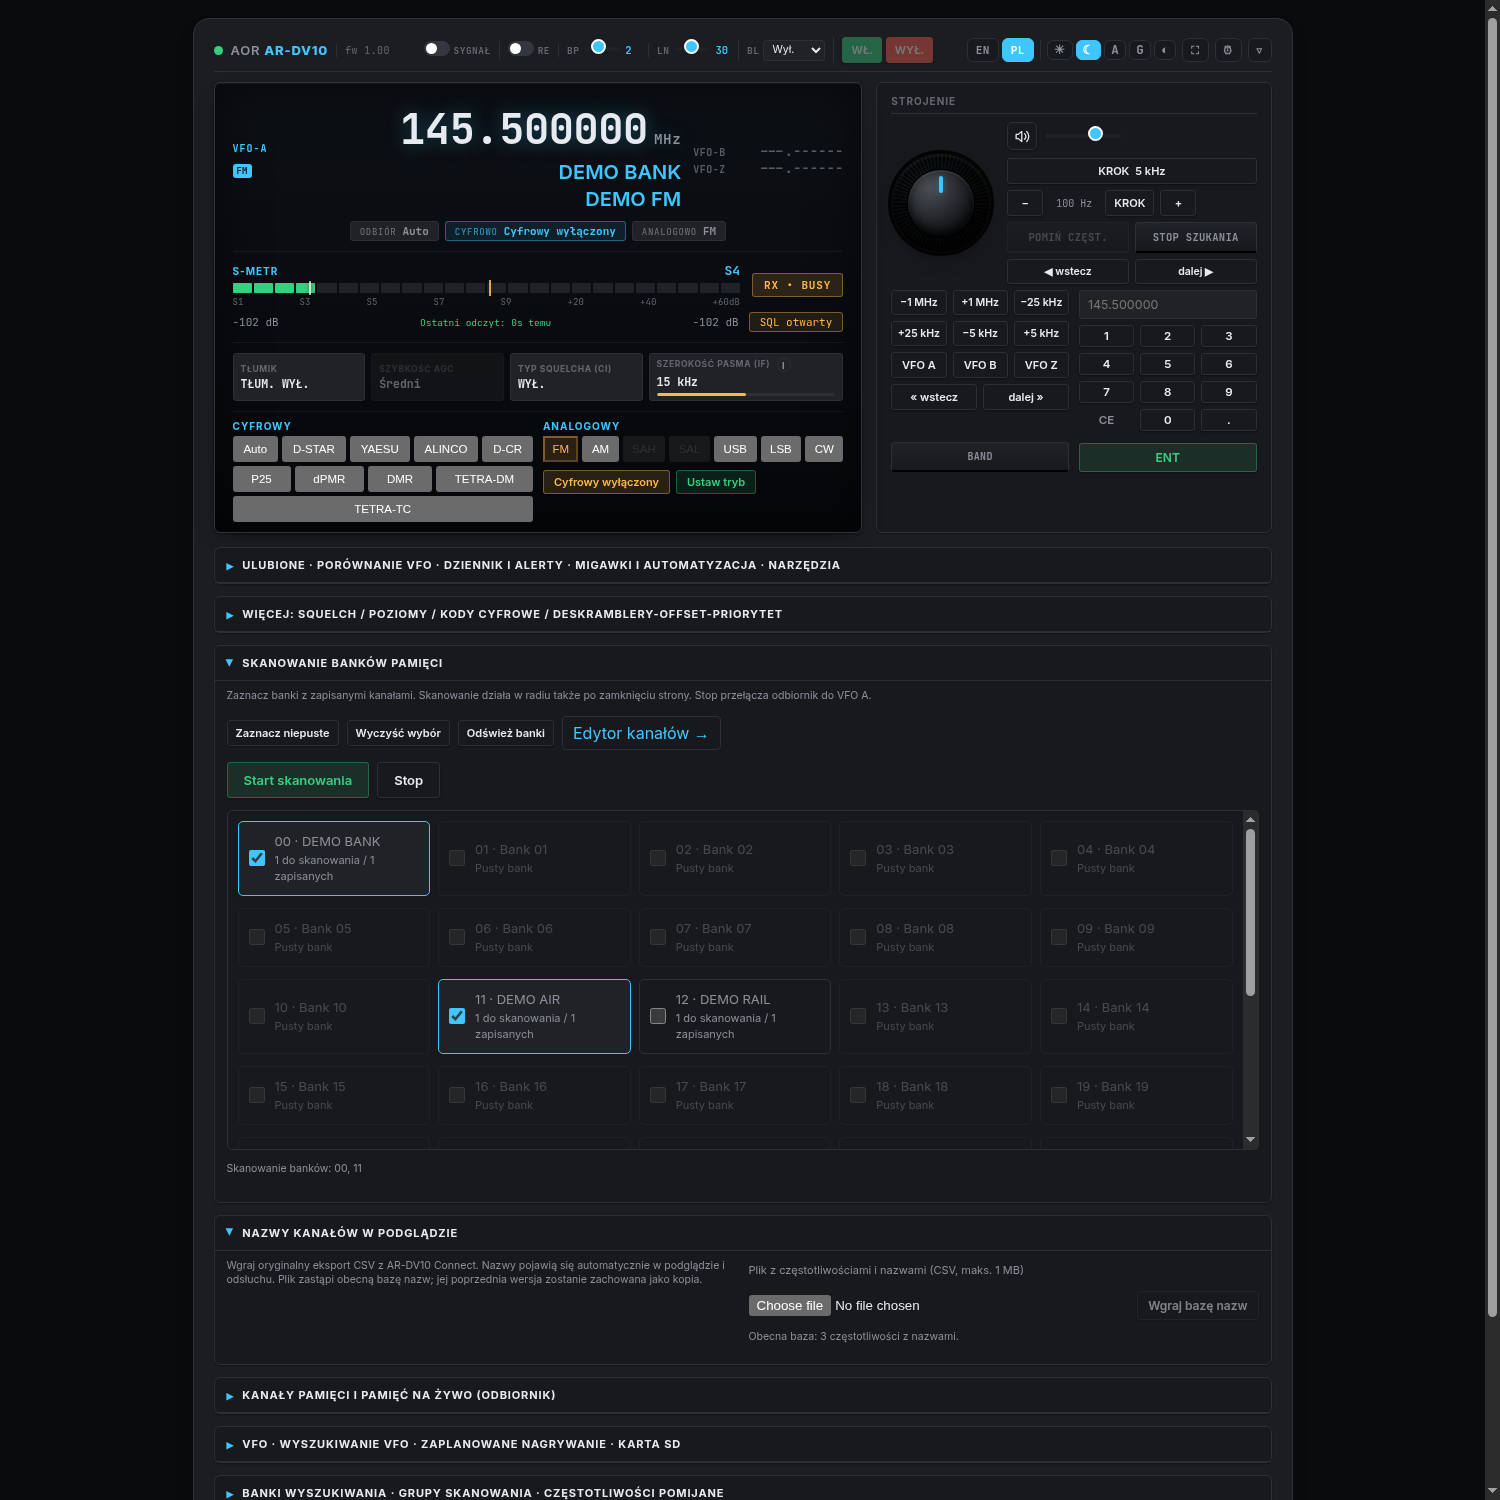
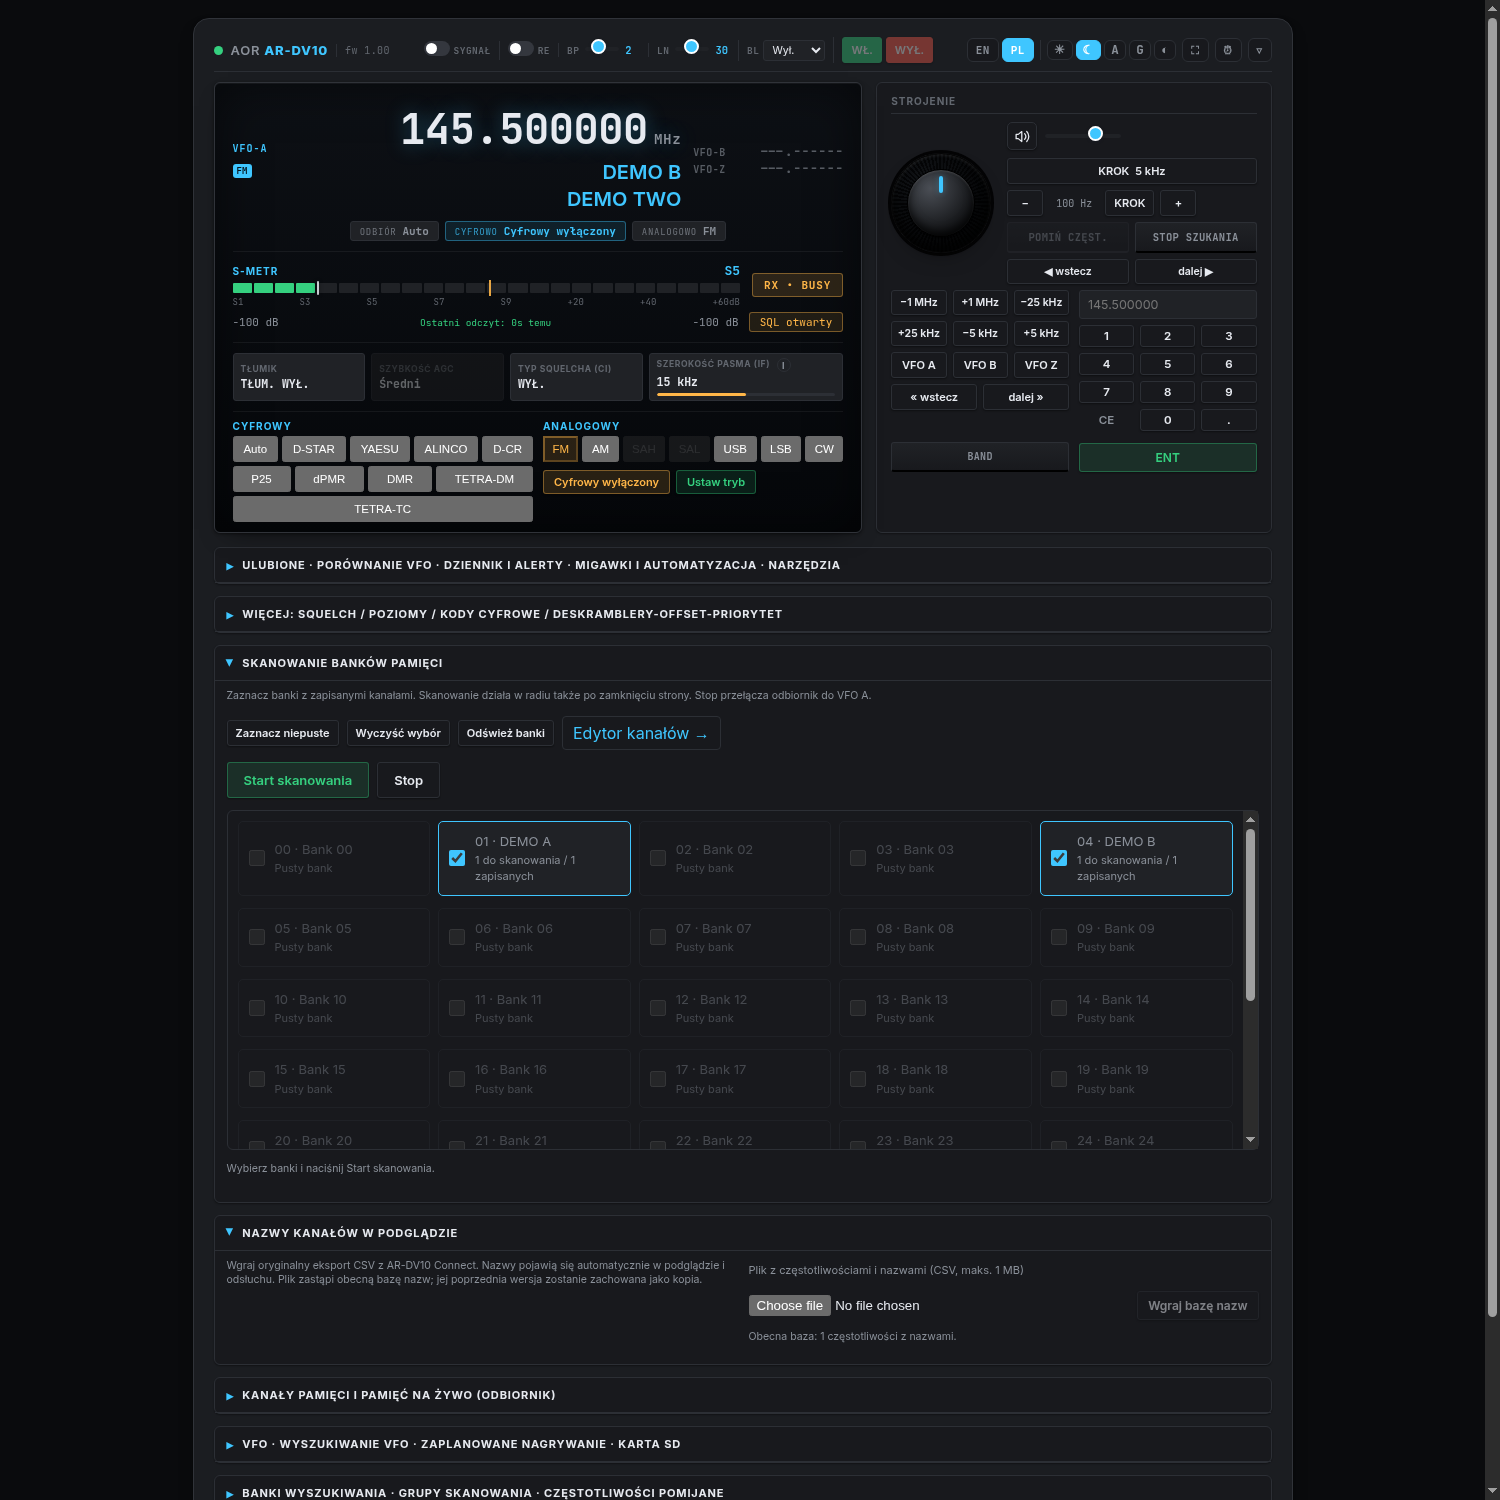
Refresh panel screenshots for exact bank and channel identity
Capture current control and listening pages using synthetic channels with the same 145.500 MHz frequency in two banks. Show only DEMO B / DEMO TWO, and verify the listening page retains that exact pair when scanning resumes through the other bank. Include active AAC playback and the listening counter.

Update English and Polish screenshot descriptions and alt text. Screenshots were visually reviewed and generated from an isolated simulated receiver with synthetic audio; deployed receiver data is not included.

diff --git a/README.md b/README.md
@@ -28,13 +28,15 @@ Original documentation: [English](docs/UPSTREAM_README.md) · [Polish](docs/UPST
 
 The screenshots show the actual application with a simulated receiver and synthetic channels, using the Polish UI. They contain no private channel list.
 
+The updated panel screenshots use **145.500 MHz in two memory banks**: `01 / DEMO A / DEMO ONE` and `04 / DEMO B / DEMO TWO`. The control panel shows the current position in bank 04. The listening page retains that same bank/channel pair after scanning resumes through bank 01 at the same frequency. Each view displays one bank and one channel.
+
 ### Read-only listening page — port 80
 
-![Listening page: stacked bank/channel labels, AAC playback and active listener count](docs/images/listening-panel.png)
+![Listening page: one retained DEMO B / DEMO TWO pair after scanning resumes, AAC playback and listener count](docs/images/listening-panel.png)
 
 ### Receiver control — port 8080
 
-![Control panel: receiver controls, frequency and channel labels, named bank selection and Start/Stop scanning](docs/images/control-panel.png)
+![Control panel: current DEMO B / DEMO TWO position at 145.500 MHz, bank selection and Start/Stop scanning](docs/images/control-panel.png)
 
 ## Requirements and installation
 

diff --git a/README.pl.md b/README.pl.md
@@ -24,13 +24,15 @@ Dokumentacja oryginalnej biblioteki znajduje się w [docs/UPSTREAM_README.pl.md]
 
 Zrzuty przedstawiają rzeczywisty interfejs uruchomiony z symulatorem i przykładowymi kanałami. Nie zawierają prywatnej bazy częstotliwości.
 
+Nowe zrzuty obu paneli pokazują **145.500 MHz zapisaną w dwóch bankach pamięci**: `01 / DEMO A / DEMO ONE` i `04 / DEMO B / DEMO TWO`. Panel sterowania pokazuje bieżącą pozycję w banku 04. Podgląd zachowuje tę samą parę banku i kanału po wznowieniu skanowania przez bank 01 na tej samej częstotliwości. W każdym widoku jest jeden bank i jeden kanał.
+
 ### Podgląd i odsłuch — port 80
 
-![Strona odsłuchowa: bank nad kanałem, dźwięk AAC i licznik słuchaczy](docs/images/listening-panel.png)
+![Podgląd: jedna zapamiętana para DEMO B / DEMO TWO po wznowieniu skanowania, dźwięk AAC i licznik słuchaczy](docs/images/listening-panel.png)
 
 ### Panel sterowania — port 8080
 
-![Panel sterowania: częstotliwość, nazwy kanałów, wybór banków oraz Start i Stop skanowania](docs/images/control-panel.png)
+![Panel sterowania: aktualna pozycja DEMO B / DEMO TWO na 145.500 MHz, wybór banków oraz Start i Stop skanowania](docs/images/control-panel.png)
 
 ## Instalacja
 
